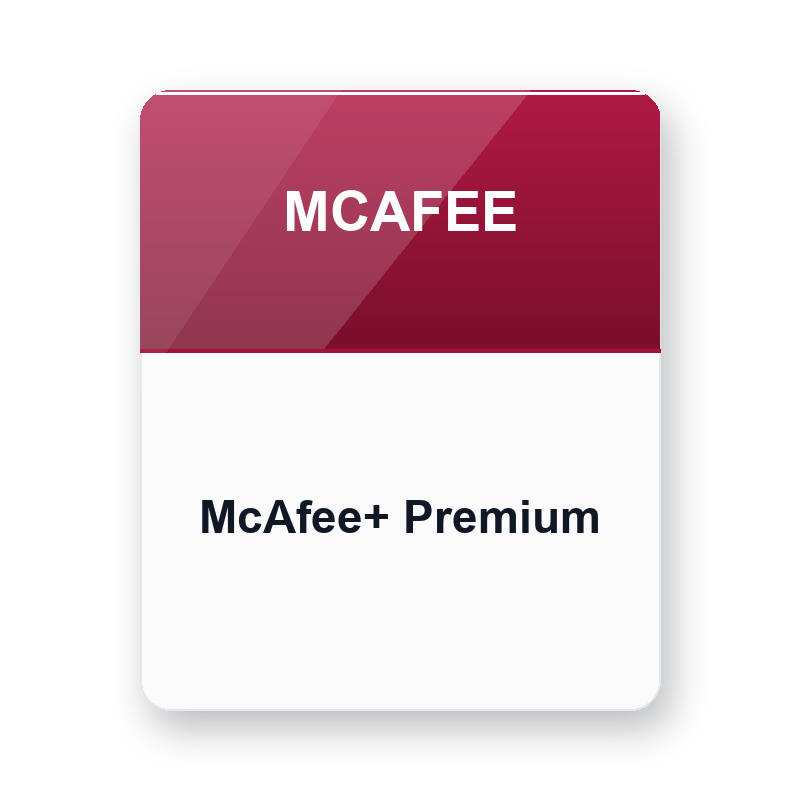
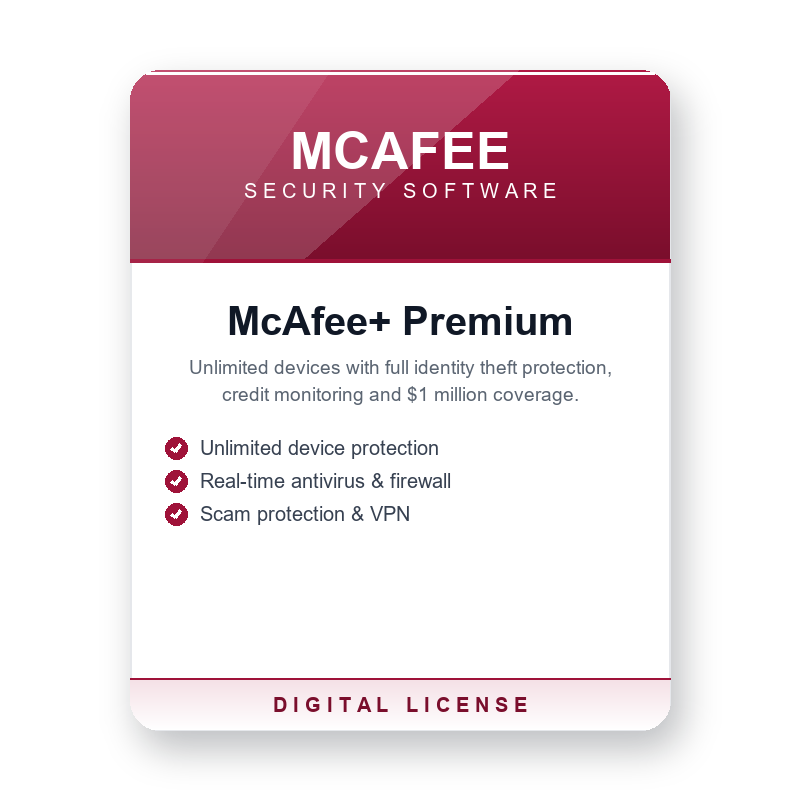
Product images as info-rich retail boxes, still GMC-compliant
Glossy gradient header + brand name + product name + tagline + 3 feature
bullets + DIGITAL LICENSE strip. All text is product/packaging info - no
price, CTA, seller branding or delivery claims (GMC-safe).

Generated with [Devin](https://devin.ai)

Changed region(s): [[0.1562, 0.0938, 0.8438, 0.9375], [0.1875, 0.5312, 0.75, 0.6875]]

diff --git a/scripts/make_product_images.py b/scripts/make_product_images.py
@@ -1,6 +1,6 @@
-"""Generate GMC-compliant product images: clean packaging-style cards.
-No prices, CTAs, delivery claims or seller branding — just brand + product
-name on a glossy box, white background."""
+"""Generate product images styled like software retail boxes.
+GMC-safe: only product information shown (brand, product name, feature
+list, license type) - no price, CTAs, seller branding or delivery claims."""
 import re
 import os
 from PIL import Image, ImageDraw, ImageFont, ImageFilter, ImageChops
@@ -14,9 +14,9 @@ FONT_BOLD = "C:/Windows/Fonts/arialbd.ttf"
 FONT_REG = "C:/Windows/Fonts/arial.ttf"
 
 ACCENTS = {
-    "Norton":  {"hi": "#C99214", "mid": "#A16207", "lo": "#7C4A03"},
-    "Webroot": {"hi": "#0E9163", "mid": "#047857", "lo": "#065F46"},
-    "McAfee":  {"hi": "#B01A45", "mid": "#9F1239", "lo": "#7A0E2C"},
+    "Norton":  {"hi": "#C99214", "mid": "#A16207", "lo": "#7C4A03", "soft": "#F5ECD4"},
+    "Webroot": {"hi": "#0E9163", "mid": "#047857", "lo": "#065F46", "soft": "#D2EBDD"},
+    "McAfee":  {"hi": "#B01A45", "mid": "#9F1239", "lo": "#7A0E2C", "soft": "#F5E0E6"},
 }
 
 
@@ -33,8 +33,12 @@ def load_products():
         slug = m(r"'slug': '([^']+)'")
         name = m(r"'name': '([^']+)'")
         brand = m(r"'brand': '([^']+)'")
+        tagline = m(r"'tagline': '([^']*)'")
+        feats_raw = m(r"'features': \[([^\]]*)\]")
+        feats = re.findall(r"'([^']*)'", feats_raw) if feats_raw else []
         if slug and name:
-            products.append({"slug": slug, "name": name, "brand": brand})
+            products.append({"slug": slug, "name": name, "brand": brand,
+                             "tagline": tagline or "", "features": feats})
     return products
 
 
@@ -67,33 +71,35 @@ def vgrad(size, top, bottom):
     return base.resize((w, h))
 
 
+def draw_check(draw, cx, cy, r, color):
+    """Small filled circle with a check mark."""
+    draw.ellipse([cx - r, cy - r, cx + r, cy + r], fill=color)
+    p = r * 0.55
+    draw.line([(cx - p * 0.7, cy), (cx - p * 0.15, cy + p * 0.55)], fill="#FFFFFF", width=max(2, int(r * 0.28)))
+    draw.line([(cx - p * 0.15, cy + p * 0.55), (cx + p * 0.8, cy - p * 0.6)], fill="#FFFFFF", width=max(2, int(r * 0.28)))
+
+
 def make_image(p):
     a = ACCENTS.get(p["brand"], ACCENTS["Norton"])
     img = Image.new("RGB", (W, H), "#FFFFFF")
 
-    # ---- product box: portrait card centered on white canvas ----
-    bx, by, bw, bh = 140, 90, 520, 620
+    # ---- retail box ----
+    bx, by, bw, bh = 130, 70, 540, 660
 
-    # drop shadow
     shadow = Image.new("RGBA", (W, H), (0, 0, 0, 0))
     ImageDraw.Draw(shadow).rounded_rectangle(
         [bx + 10, by + 18, bx + bw + 10, by + bh + 18], radius=30, fill=(16, 24, 38, 70))
-    shadow = shadow.filter(ImageFilter.GaussianBlur(18))
-    img = Image.alpha_composite(img.convert("RGBA"), shadow).convert("RGB")
+    img = Image.alpha_composite(img.convert("RGBA"), shadow.filter(ImageFilter.GaussianBlur(18))).convert("RGB")
     d = ImageDraw.Draw(img)
+    d.rounded_rectangle([bx, by, bx + bw, by + bh], radius=30, fill="#FFFFFF", outline="#E5E7EB", width=2)
 
-    # white card body
-    d.rounded_rectangle([bx, by, bx + bw, by + bh], radius=30, fill="#FBFBFC", outline="#E5E7EB", width=2)
-
-    # glossy gradient header (top ~40% of box)
-    band_h = int(bh * 0.42)
+    # header: glossy gradient band with brand name
+    band_h = 190
     band = vgrad((bw, band_h), a["hi"], a["lo"])
-    # diagonal sheen
     sheen = Image.new("L", (bw, band_h), 0)
-    sd = ImageDraw.Draw(sheen)
-    sd.polygon([(0, 0), (bw * 0.75, 0), (bw * 0.35, band_h), (0, band_h)], fill=42)
+    ImageDraw.Draw(sheen).polygon(
+        [(0, 0), (int(bw * 0.72), 0), (int(bw * 0.32), band_h), (0, band_h)], fill=45)
     band = Image.composite(Image.new("RGB", (bw, band_h), "#FFFFFF"), band, sheen)
-    # clip to rounded top corners
     mask = Image.new("L", (bw, band_h), 0)
     md = ImageDraw.Draw(mask)
     md.rounded_rectangle([0, 0, bw, band_h + 50], radius=30, fill=255)
@@ -102,28 +108,65 @@ def make_image(p):
     d = ImageDraw.Draw(img)
     d.line([(bx + 16, by + 3), (bx + bw - 16, by + 3)], fill=(255, 255, 255), width=3)
 
-    # brand name centered in header
-    f_brand = ImageFont.truetype(FONT_BOLD, 56)
+    f_brand = ImageFont.truetype(FONT_BOLD, 52)
     bname = (p["brand"] or "").upper()
     tw = d.textlength(bname, font=f_brand)
-    d.text((bx + (bw - tw) / 2, by + band_h / 2 - 40), bname, font=f_brand, fill="#FFFFFF")
+    d.text((bx + (bw - tw) / 2, by + band_h / 2 - 44), bname, font=f_brand, fill="#FFFFFF")
+    f_sub = ImageFont.truetype(FONT_REG, 20)
+    sub = "S E C U R I T Y   S O F T W A R E"
+    tw = d.textlength(sub, font=f_sub)
+    d.text((bx + (bw - tw) / 2, by + band_h / 2 + 14), sub, font=f_sub, fill=(255, 255, 255))
 
-    # thin divider accent under header
+    # accent divider
     d.line([(bx, by + band_h), (bx + bw, by + band_h)], fill=a["mid"], width=4)
 
-    # product name (wrapped, centered) in lower white area
-    f_name = ImageFont.truetype(FONT_BOLD, 46)
-    lines = wrap(d, p["name"], f_name, bw - 60)
-    block_h = len(lines) * 58
-    y = by + band_h + (bh - band_h - block_h) / 2 - 10
-    for line in lines:
+    # product name
+    f_name = ImageFont.truetype(FONT_BOLD, 40)
+    y = by + band_h + 38
+    for line in wrap(d, p["name"], f_name, bw - 56)[:3]:
         tw = d.textlength(line, font=f_name)
         d.text((bx + (bw - tw) / 2, y), line, font=f_name, fill="#101826")
-        y += 58
+        y += 48
 
-    # subtle diagonal gloss across whole box
+    # tagline
+    f_tag = ImageFont.truetype(FONT_REG, 19)
+    y += 10
+    for line in wrap(d, p["tagline"], f_tag, bw - 80)[:3]:
+        tw = d.textlength(line, font=f_tag)
+        d.text((bx + (bw - tw) / 2, y), line, font=f_tag, fill="#5B6572")
+        y += 27
+
+    # feature list with check marks (product info = packaging copy)
+    f_feat = ImageFont.truetype(FONT_REG, 20)
+    feats = p["features"][:3]
+    fy = min(y + 26, by + bh - 210)
+    for feat in feats:
+        lines = wrap(d, feat, f_feat, bw - 130)
+        if fy + len(lines) * 27 > by + bh - 130:
+            break
+        draw_check(d, bx + 46, fy + 12, 11, a["mid"])
+        for ln in lines:
+            d.text((bx + 70, fy), ln, font=f_feat, fill="#374151")
+            fy += 27
+        fy += 6
+
+    # bottom strip: license-type info band (packaging info, not promo)
+    strip_h = 52
+    strip = vgrad((bw, strip_h), a["soft"], "#FFFFFF")
+    smask = Image.new("L", (bw, strip_h), 0)
+    smd = ImageDraw.Draw(smask)
+    smd.rounded_rectangle([0, -50, bw, strip_h], radius=30, fill=255)
+    img.paste(strip, (bx, by + bh - strip_h), smask)
+    d = ImageDraw.Draw(img)
+    d.line([(bx, by + bh - strip_h), (bx + bw, by + bh - strip_h)], fill=a["mid"], width=2)
+    f_strip = ImageFont.truetype(FONT_BOLD, 20)
+    strip_txt = "D I G I T A L   L I C E N S E"
+    tw = d.textlength(strip_txt, font=f_strip)
+    d.text((bx + (bw - tw) / 2, by + bh - strip_h + 15), strip_txt, font=f_strip, fill=a["lo"])
+
+    # subtle diagonal gloss over the whole box
     gloss = Image.new("L", (W, H), 0)
-    ImageDraw.Draw(gloss).polygon([(bx, by), (bx + 200, by), (bx, by + 300)], fill=20)
+    ImageDraw.Draw(gloss).polygon([(bx, by), (bx + 200, by), (bx, by + 300)], fill=18)
     cm = Image.new("L", (W, H), 0)
     ImageDraw.Draw(cm).rounded_rectangle([bx, by, bx + bw, by + bh], radius=30, fill=255)
     gloss = ImageChops.multiply(gloss, cm)
